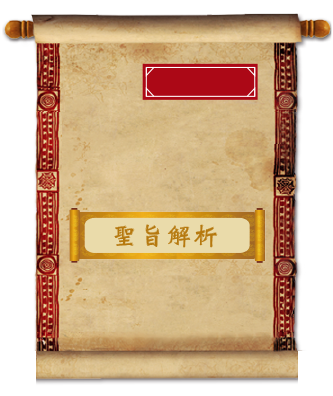
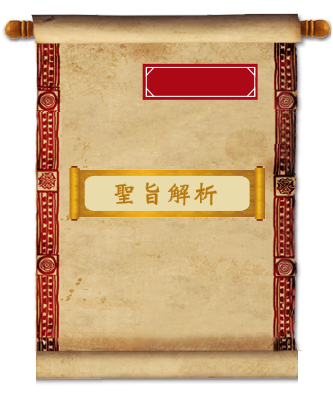
調整聖旨畫面,上方置中對齊,下方空間加大.

Changed region(s): [[0.2102, 0.3939, 0.8108, 0.6667]]

diff --git a/kangxi.js b/kangxi.js
@@ -31,87 +31,87 @@ words[29] = "驪鸜鸛躪";
 words[30] = "鸞鸝";
 
 var out80 = [];
-out80[1] = new Array ("繁榮發達，信用得固，萬人仰望，可獲成功。","吉");
-out80[2] = new Array ("動搖不安，一榮一枯，一盛一衰，勞而無功。","凶");
-out80[3] = new Array ("立身出世，有貴人助，天賜吉祥，四海名揚。","吉");
-out80[4] = new Array ("日被雲遮，苦難折磨，非有毅力，難望成功。","凶");
-out80[5] = new Array ("陰陽和合，精神愉快，榮譽達利，一門興隆。","吉");
-out80[6] = new Array ("萬寶集門，天降幸運，立志奮發，得成大功。","吉");
-out80[7] = new Array ("精力旺盛，頭腦明敏，排除萬難，必獲成功。","吉");
-out80[8] = new Array ("努力發達，貫徹志望，不忘進退，可期成功。","吉");
-out80[9] = new Array ("雖抱奇才，有才無命，獨營無力，財利難望。","凶");
-out80[10] = new Array ("烏雲遮月，暗淡無光，空費心力，徒勞無功。","凶");
-out80[11] = new Array ("草木逢春，枝葉沾露，穩健著實，必得人望。","吉");
-out80[12] = new Array ("薄弱無力，孤立無援，外祥內苦，謀事難成。","凶");
-out80[13] = new Array ("天賦吉運，能得人望，善用智慧，必獲成功。","吉");
-out80[14] = new Array ("忍得苦難，必有後福，是成是敗，惟靠堅毅。","凶");
-out80[15] = new Array ("謙恭做事，外得人和，大事成就，一門興隆。","吉");
-out80[16] = new Array ("能獲眾望，成就大業，名利雙收，盟主四方。","吉");
-out80[17] = new Array ("排除萬難，有貴人助，把握時機，可得成功。","吉");
-out80[18] = new Array ("經商做事，順利昌隆，如能慎始，百事亨通。","吉");
-out80[19] = new Array ("成功雖早，慎防虧空，內外不和，障礙重重。","凶");
-out80[20] = new Array ("智高志大，歷盡艱難，焦心憂勞，進退兩難。","凶");
-out80[21] = new Array ("先歷困苦，後得幸福，霜雪梅花，春來怒放。","吉");
-out80[22] = new Array ("秋草逢霜，懷才不遇，憂愁怨苦，事不如意。","凶");
-out80[23] = new Array ("旭日升天，名顯四方，漸次進展，終成大業。","吉");
-out80[24] = new Array ("錦繡前程，須靠自力，多用智謀，能奏大功。","吉");
-out80[25] = new Array ("天時地利，只欠人和，講信修睦，即可成功。","吉");
-out80[26] = new Array ("波瀾起伏，千變萬化，凌駕萬難，必可成功。","凶帶吉");
-out80[27] = new Array ("一成一敗，一盛一衰，惟靠謹慎，可守成功。","吉帶凶");
-out80[28] = new Array ("魚臨旱地，難逃惡運，此數大凶，不如更名。","凶");
-out80[29] = new Array ("如龍得雲，青雲直上，智謀奮進，才略奏功。","吉");
-out80[30] = new Array ("吉凶參半，得失相伴，投機取巧，如賭一樣。","吉帶凶");
-out80[31] = new Array ("此數大吉，名利雙收，漸進向上，大業成就。","吉");
-out80[32] = new Array ("池中之龍，風雲際會，一躍上天，成功可望。","吉");
-out80[33] = new Array ("意氣用事，人和必失，如能慎始，必可昌隆。","吉");
-out80[34] = new Array ("災難不絕，難望成功，此數大凶，不如更名。","凶");
-out80[35] = new Array ("處事嚴謹，進退保守，學智兼具，成就非凡。","吉");
-out80[36] = new Array ("波瀾重疊，常陷窮困，動不如靜，有才無命。","凶");
-out80[37] = new Array ("逢凶化吉，吉人天相，以德取眾，必成大功。","吉");
-out80[38] = new Array ("名雖可得，利則難獲，藝界發展，可望成功。","凶帶吉");
-out80[39] = new Array ("雲開見月，雖有勞碌，光明坦途，指日可期。","吉");
-out80[40] = new Array ("一盛一衰，浮沈不定，知難而退，自獲天佑。","吉帶凶");
-out80[41] = new Array ("天賦吉運，德望兼備，繼續努力，前途無限。","吉");
-out80[42] = new Array ("事業不專，十九不成，專心進取，可望成功。","吉帶凶");
-out80[43] = new Array ("雨夜之花，外祥內苦，忍耐自重，轉凶為吉。","吉帶凶");
-out80[44] = new Array ("雖用心計，事難遂願，貪功好進，必招失敗。","凶");
-out80[45] = new Array ("楊柳遇春，綠葉發枝，衝破難關，一舉成名。","吉");
-out80[46] = new Array ("坎坷不平，艱難重重，若無耐心，難望有成。","凶");
-out80[47] = new Array ("有貴人助，可成大業，雖遇不幸，浮沈不大。","吉");
-out80[48] = new Array ("美花豐實，鶴立雞群，名利俱全，繁榮富貴。","吉");
-out80[49] = new Array ("遇吉則吉，遇凶則凶，惟靠謹慎，逢凶化吉。","凶");
-out80[50] = new Array ("吉凶互見，一成一敗，凶中有吉，吉中有凶。","吉帶凶");
-out80[51] = new Array ("一盛一衰，浮沈不常，自重自處，可保平安。","吉帶凶");
-out80[52] = new Array ("草木逢春，雨過天晴，渡過難關，即獲成功。","吉");
-out80[53] = new Array ("盛衰參半，外祥內苦，先吉後凶，先凶後吉。","吉帶凶");
-out80[54] = new Array ("雖傾全力，難望成功，此數大凶，最好改名。","凶");
-out80[55] = new Array ("外觀隆昌，內隱禍患，克服難關，開出泰運。","吉帶凶");
-out80[56] = new Array ("事與願違，終難成功，欲速不達，有始無終。","凶");
-out80[57] = new Array ("雖有困難，時來運轉，曠野枯草，春來花開。","凶帶吉");
-out80[58] = new Array ("半凶半吉，浮沈多端，始凶終吉，能保成功。","凶帶吉");
-out80[59] = new Array ("遇事猶疑，難望成事，大刀闊斧，始可有成。","凶");
-out80[60] = new Array ("黑暗無光，心迷意亂，出爾反爾，難定方針。","凶");
-out80[61] = new Array ("雲遮半月，內隱風波，應自謹慎，始保平安。","吉帶凶");
-out80[62] = new Array ("煩悶懊惱，事業難展，自防災禍，始免困境。","凶");
-out80[63] = new Array ("萬物化育，繁榮之象，專心一意，必能成功。","吉");
-out80[64] = new Array ("見異思遷，十九不成，徒勞無功，不如更名。","凶");
-out80[65] = new Array ("吉運自來，能享盛名，把握機會，必獲成功。","吉");
-out80[66] = new Array ("黑夜漫長，進退維谷，內外不和，信用缺乏。","凶");
-out80[67] = new Array ("獨營事業，事事如意，功成名就，富貴自來。","吉");
-out80[68] = new Array ("思慮周詳，計畫力行，不失先機，可望成功。","吉");
-out80[69] = new Array ("動搖不安，常陷逆境，不得時運，難得利潤。","凶");
-out80[70] = new Array ("慘淡經營，難免貧困，此數不吉，最好改名。","凶");
-out80[71] = new Array ("吉凶參半，惟賴勇氣，貫徹力行，始可成功。","吉帶凶");
-out80[72] = new Array ("利害混集，凶多吉少，得而復失，難以安順。","凶");
-out80[73] = new Array ("安樂自來，自然吉祥，力行不懈，必能成功。","吉");
-out80[74] = new Array ("利不及費，坐食山空，如無智謀，難望成功。","凶");
-out80[75] = new Array ("吉中帶凶，欲速不達，進不如守，可保安祥。","吉帶凶");
-out80[76] = new Array ("此數大凶，破產之象，宜速改名，以避厄運。","凶");
-out80[77] = new Array ("先苦後甘，先甘後苦，如能守成，不致失敗。","吉帶凶");
-out80[78] = new Array ("有得有失，華而不實，須防劫財，始保安順。","吉帶凶");
-out80[79] = new Array ("如走夜路，前途無光，希望不大，勞而無功。","凶");
-out80[80] = new Array ("得而復失，枉費心機，守成無貧，可保安穩。","吉帶凶");
-out80[81] = new Array ("最極之數，還本歸元，能得繁榮，發達成功。","吉");
+out80[1] = new Array ("繁榮發達，信用得固，<br>萬人仰望，可獲成功。","吉");
+out80[2] = new Array ("動搖不安，一榮一枯，<br>一盛一衰，勞而無功。","凶");
+out80[3] = new Array ("立身出世，有貴人助，<br>天賜吉祥，四海名揚。","吉");
+out80[4] = new Array ("日被雲遮，苦難折磨，<br>非有毅力，難望成功。","凶");
+out80[5] = new Array ("陰陽和合，精神愉快，<br>榮譽達利，一門興隆。","吉");
+out80[6] = new Array ("萬寶集門，天降幸運，<br>立志奮發，得成大功。","吉");
+out80[7] = new Array ("精力旺盛，頭腦明敏，<br>排除萬難，必獲成功。","吉");
+out80[8] = new Array ("努力發達，貫徹志望，<br>不忘進退，可期成功。","吉");
+out80[9] = new Array ("雖抱奇才，有才無命，<br>獨營無力，財利難望。","凶");
+out80[10] = new Array ("烏雲遮月，暗淡無光，<br>空費心力，徒勞無功。","凶");
+out80[11] = new Array ("草木逢春，枝葉沾露，<br>穩健著實，必得人望。","吉");
+out80[12] = new Array ("薄弱無力，孤立無援，<br>外祥內苦，謀事難成。","凶");
+out80[13] = new Array ("天賦吉運，能得人望，<br>善用智慧，必獲成功。","吉");
+out80[14] = new Array ("忍得苦難，必有後福，<br>是成是敗，惟靠堅毅。","凶");
+out80[15] = new Array ("謙恭做事，外得人和，<br>大事成就，一門興隆。","吉");
+out80[16] = new Array ("能獲眾望，成就大業，<br>名利雙收，盟主四方。","吉");
+out80[17] = new Array ("排除萬難，有貴人助，<br>把握時機，可得成功。","吉");
+out80[18] = new Array ("經商做事，順利昌隆，<br>如能慎始，百事亨通。","吉");
+out80[19] = new Array ("成功雖早，慎防虧空，<br>內外不和，障礙重重。","凶");
+out80[20] = new Array ("智高志大，歷盡艱難，<br>焦心憂勞，進退兩難。","凶");
+out80[21] = new Array ("先歷困苦，後得幸福，<br>霜雪梅花，春來怒放。","吉");
+out80[22] = new Array ("秋草逢霜，懷才不遇，<br>憂愁怨苦，事不如意。","凶");
+out80[23] = new Array ("旭日升天，名顯四方，<br>漸次進展，終成大業。","吉");
+out80[24] = new Array ("錦繡前程，須靠自力，<br>多用智謀，能奏大功。","吉");
+out80[25] = new Array ("天時地利，只欠人和，<br>講信修睦，即可成功。","吉");
+out80[26] = new Array ("波瀾起伏，千變萬化，<br>凌駕萬難，必可成功。","凶帶吉");
+out80[27] = new Array ("一成一敗，一盛一衰，<br>惟靠謹慎，可守成功。","吉帶凶");
+out80[28] = new Array ("魚臨旱地，難逃惡運，<br>此數大凶，不如更名。","凶");
+out80[29] = new Array ("如龍得雲，青雲直上，<br>智謀奮進，才略奏功。","吉");
+out80[30] = new Array ("吉凶參半，得失相伴，<br>投機取巧，如賭一樣。","吉帶凶");
+out80[31] = new Array ("此數大吉，名利雙收，<br>漸進向上，大業成就。","吉");
+out80[32] = new Array ("池中之龍，風雲際會，<br>一躍上天，成功可望。","吉");
+out80[33] = new Array ("意氣用事，人和必失，<br>如能慎始，必可昌隆。","吉");
+out80[34] = new Array ("災難不絕，難望成功，<br>此數大凶，不如更名。","凶");
+out80[35] = new Array ("處事嚴謹，進退保守，<br>學智兼具，成就非凡。","吉");
+out80[36] = new Array ("波瀾重疊，常陷窮困，<br>動不如靜，有才無命。","凶");
+out80[37] = new Array ("逢凶化吉，吉人天相，<br>以德取眾，必成大功。","吉");
+out80[38] = new Array ("名雖可得，利則難獲，<br>藝界發展，可望成功。","凶帶吉");
+out80[39] = new Array ("雲開見月，雖有勞碌，<br>光明坦途，指日可期。","吉");
+out80[40] = new Array ("一盛一衰，浮沈不定，<br>知難而退，自獲天佑。","吉帶凶");
+out80[41] = new Array ("天賦吉運，德望兼備，<br>繼續努力，前途無限。","吉");
+out80[42] = new Array ("事業不專，十九不成，<br>專心進取，可望成功。","吉帶凶");
+out80[43] = new Array ("雨夜之花，外祥內苦，<br>忍耐自重，轉凶為吉。","吉帶凶");
+out80[44] = new Array ("雖用心計，事難遂願，<br>貪功好進，必招失敗。","凶");
+out80[45] = new Array ("楊柳遇春，綠葉發枝，<br>衝破難關，一舉成名。","吉");
+out80[46] = new Array ("坎坷不平，艱難重重，<br>若無耐心，難望有成。","凶");
+out80[47] = new Array ("有貴人助，可成大業，<br>雖遇不幸，浮沈不大。","吉");
+out80[48] = new Array ("美花豐實，鶴立雞群，<br>名利俱全，繁榮富貴。","吉");
+out80[49] = new Array ("遇吉則吉，遇凶則凶，<br>惟靠謹慎，逢凶化吉。","凶");
+out80[50] = new Array ("吉凶互見，一成一敗，<br>凶中有吉，吉中有凶。","吉帶凶");
+out80[51] = new Array ("一盛一衰，浮沈不常，<br>自重自處，可保平安。","吉帶凶");
+out80[52] = new Array ("草木逢春，雨過天晴，<br>渡過難關，即獲成功。","吉");
+out80[53] = new Array ("盛衰參半，外祥內苦，<br>先吉後凶，先凶後吉。","吉帶凶");
+out80[54] = new Array ("雖傾全力，難望成功，<br>此數大凶，最好改名。","凶");
+out80[55] = new Array ("外觀隆昌，內隱禍患，<br>克服難關，開出泰運。","吉帶凶");
+out80[56] = new Array ("事與願違，終難成功，<br>欲速不達，有始無終。","凶");
+out80[57] = new Array ("雖有困難，時來運轉，<br>曠野枯草，春來花開。","凶帶吉");
+out80[58] = new Array ("半凶半吉，浮沈多端，<br>始凶終吉，能保成功。","凶帶吉");
+out80[59] = new Array ("遇事猶疑，難望成事，<br>大刀闊斧，始可有成。","凶");
+out80[60] = new Array ("黑暗無光，心迷意亂，<br>出爾反爾，難定方針。","凶");
+out80[61] = new Array ("雲遮半月，內隱風波，<br>應自謹慎，始保平安。","吉帶凶");
+out80[62] = new Array ("煩悶懊惱，事業難展，<br>自防災禍，始免困境。","凶");
+out80[63] = new Array ("萬物化育，繁榮之象，<br>專心一意，必能成功。","吉");
+out80[64] = new Array ("見異思遷，十九不成，<br>徒勞無功，不如更名。","凶");
+out80[65] = new Array ("吉運自來，能享盛名，<br>把握機會，必獲成功。","吉");
+out80[66] = new Array ("黑夜漫長，進退維谷，<br>內外不和，信用缺乏。","凶");
+out80[67] = new Array ("獨營事業，事事如意，<br>功成名就，富貴自來。","吉");
+out80[68] = new Array ("思慮周詳，計畫力行，<br>不失先機，可望成功。","吉");
+out80[69] = new Array ("動搖不安，常陷逆境，<br>不得時運，難得利潤。","凶");
+out80[70] = new Array ("慘淡經營，難免貧困，<br>此數不吉，最好改名。","凶");
+out80[71] = new Array ("吉凶參半，惟賴勇氣，<br>貫徹力行，始可成功。","吉帶凶");
+out80[72] = new Array ("利害混集，凶多吉少，<br>得而復失，難以安順。","凶");
+out80[73] = new Array ("安樂自來，自然吉祥，<br>力行不懈，必能成功。","吉");
+out80[74] = new Array ("利不及費，坐食山空，<br>如無智謀，難望成功。","凶");
+out80[75] = new Array ("吉中帶凶，欲速不達，<br>進不如守，可保安祥。","吉帶凶");
+out80[76] = new Array ("此數大凶，破產之象，<br>宜速改名，以避厄運。","凶");
+out80[77] = new Array ("先苦後甘，先甘後苦，<br>如能守成，不致失敗。","吉帶凶");
+out80[78] = new Array ("有得有失，華而不實，<br>須防劫財，始保安順。","吉帶凶");
+out80[79] = new Array ("如走夜路，前途無光，<br>希望不大，勞而無功。","凶");
+out80[80] = new Array ("得而復失，枉費心機，<br>守成無貧，可保安穩。","吉帶凶");
+out80[81] = new Array ("最極之數，還本歸元，<br>能得繁榮，發達成功。","吉");
 
 var say80 = [];
 say80[1] = "奉天　承運皇帝　詔曰【你的人際關係很好，積極進取，不願受制於人，具有領袖風範。你對部屬、晚輩寬大親和，十分受到愛戴。】";

diff --git a/kangxi.css b/kangxi.css
@@ -211,15 +211,15 @@ div#menu_6 { left: 795px; top: 80px; width: 77px; height: 24px;}
 	width: 200px;
 	height: 83px;
 	color : black;
-	text-align: left;
+	text-align: center;
 	font-size: 16px;
 	font-weight:bold;
 }
 #say80 {
 	left: 65px;
-	top: 265px;
+	top: 230px;
 	width: 200px;
-	height: 85px;
+	height: 115px;
 	color : black;
 	text-align: left;
 	font-size: 16px;
